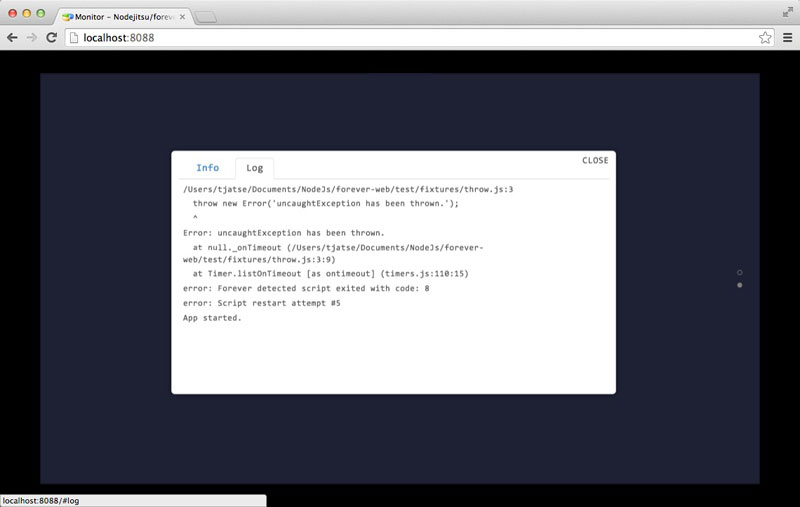
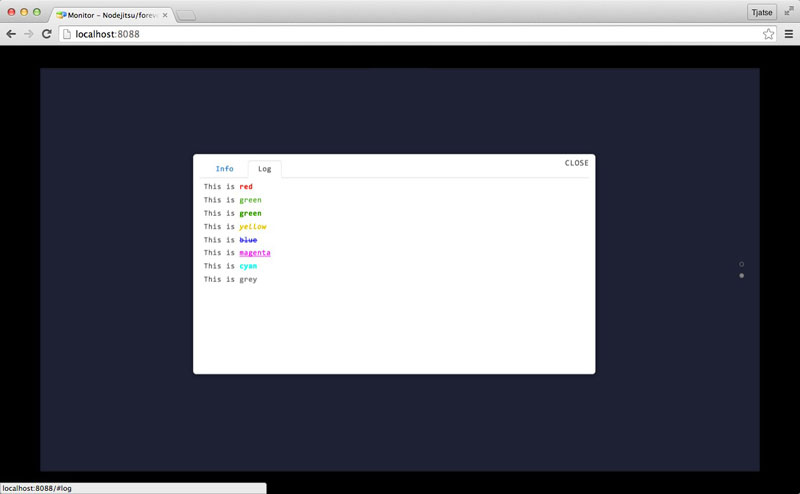
supports ANSI color codes

Changed region(s): [[0.1875, 0.2733, 0.7812, 0.7895], [0.0, 0.0, 1.0, 0.1518], [0.0, 0.9717, 0.3125, 1.0]]

diff --git a/lib/mon.js b/lib/mon.js
@@ -5,8 +5,9 @@ var fs       = require('fs'),
     stat     = require('./stat'),
     chokidar = require('chokidar'),
     _        = require('lodash'),
+    ansiHTML = require('ansi-html'),
     chalk    = require('chalk'),
-    pm  = require('./pm');
+    pm       = require('./pm');
 
 module.exports = Monitor;
 
@@ -169,7 +170,7 @@ Monitor.prototype._connectSock = function(socket){
   // Trigger actions of process.
   socket.on('action', function(action, id){
     pm.action(path.join(this.config('forever'), 'sock'), action, id, function(err, data){
-      if(err){
+      if (err) {
         this._log.e(action, err.message);
         return socket.emit('action', id, err.message);
       }
@@ -222,7 +223,7 @@ Monitor.prototype._tailLogs = function(uid, socket){
     socket.emit('tail', {
       uid: uid, msg: lines.map(function(line){
         line = line.replace(/\s/, '&nbsp;');
-        return '<span>' + line + '</span>';
+        return '<span>' + ansiHTML(line) + '</span>';
       }).join('')
     });
   }, function(err, tail){
@@ -326,8 +327,8 @@ Monitor.prototype._watchSocks = function(){
   // Chokidar doesn't watch the `0 byte size` file at all, so we try to watch `pids` directory.
   // And if there has any changes, try to get sockets from `sock`.
   chokidar.watch(pidPath, {
-    ignored      : false,
-    persistent   : true
+    ignored   : false,
+    persistent: true
   }).on('all', function(e, p){
     this._log.i('chokidar', e, p);
     this._refreshProcs(sockPath);

diff --git a/web/public/css/style.css b/web/public/css/style.css
@@ -368,7 +368,10 @@ html, body {
 }
 
 #log span {
-  padding: 2px;
   font-size: 12px;
+}
+
+#log > span {
+  padding: 2px;
   display: block;
 }
